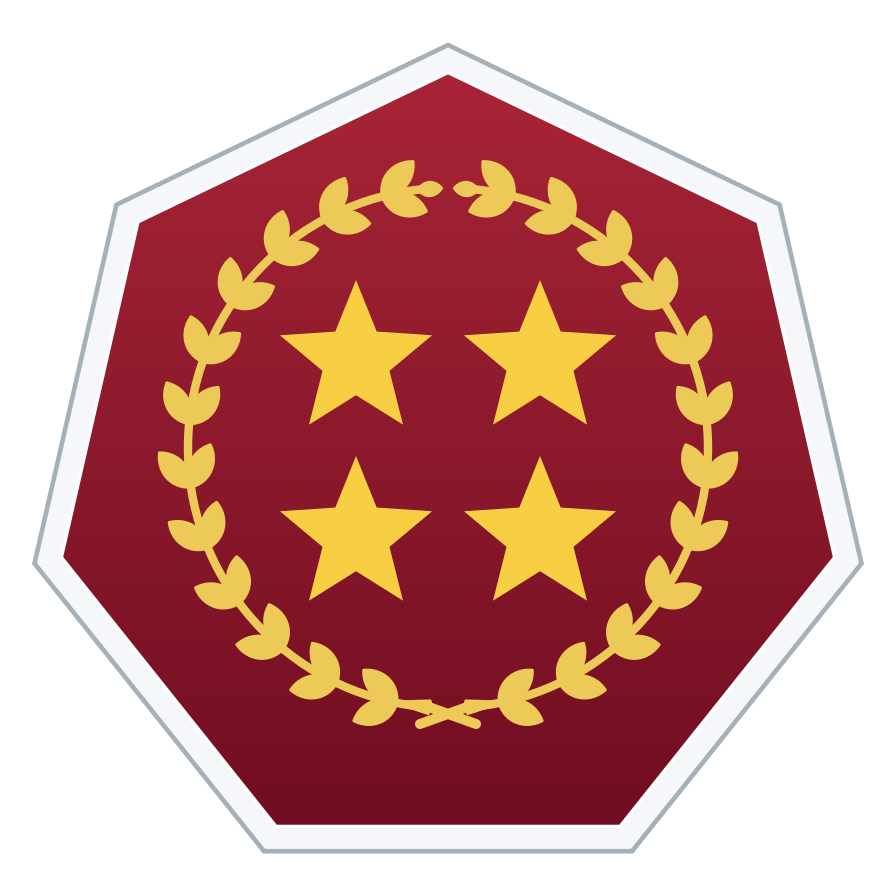
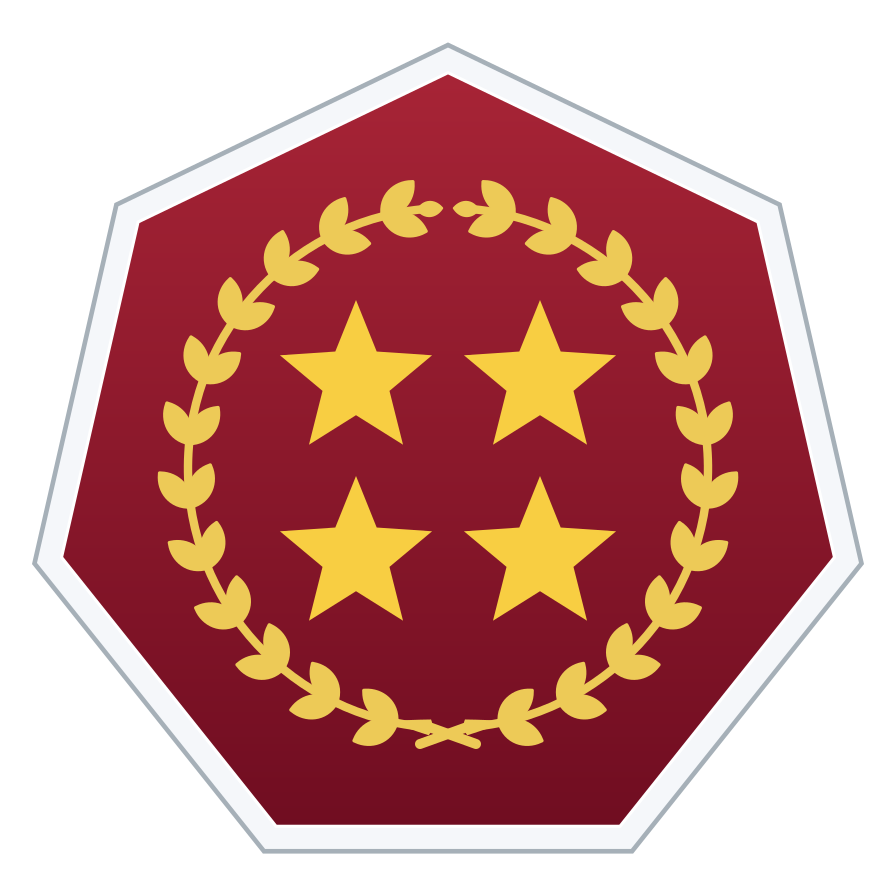
fix(rank-badges): lower general wreaths for visual balance

Changed region(s): [[0.1562, 0.1562, 0.8438, 0.8438], [0.3125, 0.5, 0.6875, 0.6875], [0.3125, 0.3125, 0.6875, 0.5]]

diff --git a/src/game/rankBadgeAssets.ts b/src/game/rankBadgeAssets.ts
@@ -22,10 +22,10 @@ export const RANK_BADGE_ASSETS = {
   badge_field_2: { src: "/assets/rank-badges/trung-ta.png?v=08f212ef3932", outerWidthRatio: 720 / RANK_BADGE_SOURCE_SIZE },
   badge_field_3: { src: "/assets/rank-badges/thuong-ta.png?v=cccd9f34c87a", outerWidthRatio: 720 / RANK_BADGE_SOURCE_SIZE },
   badge_field_4: { src: "/assets/rank-badges/dai-ta.png?v=9c4831395b3f", outerWidthRatio: 720 / RANK_BADGE_SOURCE_SIZE },
-  badge_general_1: { src: "/assets/rank-badges/thieu-tuong.png?v=c8f2120760b4", outerWidthRatio: 832 / RANK_BADGE_SOURCE_SIZE },
-  badge_general_2: { src: "/assets/rank-badges/trung-tuong.png?v=291566114357", outerWidthRatio: 832 / RANK_BADGE_SOURCE_SIZE },
-  badge_general_3: { src: "/assets/rank-badges/thuong-tuong.png?v=32f87cc65a94", outerWidthRatio: 832 / RANK_BADGE_SOURCE_SIZE },
-  badge_general_4: { src: "/assets/rank-badges/dai-tuong.png?v=23f0a5f05d74", outerWidthRatio: 832 / RANK_BADGE_SOURCE_SIZE },
+  badge_general_1: { src: "/assets/rank-badges/thieu-tuong.png?v=041447978d03", outerWidthRatio: 832 / RANK_BADGE_SOURCE_SIZE },
+  badge_general_2: { src: "/assets/rank-badges/trung-tuong.png?v=2dc9ddc0951c", outerWidthRatio: 832 / RANK_BADGE_SOURCE_SIZE },
+  badge_general_3: { src: "/assets/rank-badges/thuong-tuong.png?v=e34ddd1f3bc5", outerWidthRatio: 832 / RANK_BADGE_SOURCE_SIZE },
+  badge_general_4: { src: "/assets/rank-badges/dai-tuong.png?v=a7da741062bf", outerWidthRatio: 832 / RANK_BADGE_SOURCE_SIZE },
   badge_endgame_1: { src: "/assets/rank-badges/thong-soai.png?v=5039d5b0f76f", outerWidthRatio: 832 / RANK_BADGE_SOURCE_SIZE },
   badge_endgame_grand_marshal: { src: "/assets/rank-badges/dai-thong-soai.png?v=03c2ad4489d9", outerWidthRatio: 832 / RANK_BADGE_SOURCE_SIZE },
   badge_endgame_2: { src: "/assets/rank-badges/nguyen-soai.png?v=87e16d58957c", outerWidthRatio: 832 / RANK_BADGE_SOURCE_SIZE },

diff --git a/docs/rank-badges-png.md b/docs/rank-badges-png.md
@@ -4,6 +4,16 @@ Bộ asset gồm **24 PNG RGBA 896×896**, xuất trực tiếp từ SVG vector 
 
 ![Bộ 24 huy hiệu hiện tại](rank-badges-redraw.webp)
 
+## Cân bằng thị giác cấp Tướng
+
+So với `b26a6fb`, chỉ bốn huy hiệu **Thiếu Tướng, Trung Tướng, Thượng Tướng, Đại Tướng** thay đổi. `GENERAL_OPTICAL_OFFSET_Y = 5` dịch cả vòng nguyệt quế và cụm sao từ tâm (112,112) xuống (112,117) trên canvas 224px, tương đương 20px trong PNG 896px và khoảng 1,12px khi hiển thị 50px. Một group dịch chuyển chung dùng cho cả `badge_general_1` đến `badge_general_4`; chỉ số sao khác nhau.
+
+Đã đối chiếu cả bốn ảnh trước/sau với Tứ Tinh Thủ Hộ cùng số sao ở 224/56/24px. Mức hạ nhẹ giúp giảm cảm giác vòng bị nhấc lên trên và giữ bố cục gần cảm giác centered của nhóm tham chiếu, không làm nặng phần đáy. Vòng vẫn tròn bán kính 65, sao nằm giữa vòng; không scale hoặc chỉnh riêng lá, cành, sao hay gốc cành.
+
+Audit xác nhận khung 7 cạnh và mọi lớp viền giữ nguyên, chỉ có phép `translate(0 5)` bao quanh artwork cũ. Nền đỏ, viền sáng, vàng nguyệt quế, sao flat 1/2/3/4 không đổi. Khoảng hở nhỏ nhất từ nội dung đến viền trong tăng từ 11,68 lên **16,18 đơn vị logic**. Cả 24 PNG giữ nguyên alpha; 20 huy hiệu ngoài nhóm Tướng giữ nguyên từng byte. Registry chỉ đổi bốn hash URL, không đổi ID, tên file, padding hoặc outer ratio. PNG cuối xuất sạch từ SVG, không lấy pixel từ ảnh tham chiếu.
+
+![Trước và sau chỉnh cấp Tướng, đối chiếu Tứ Tinh Thủ Hộ](rank-badges-general-balance.webp)
+
 ## Rà soát số cạnh ngày 08/09/2026
 
 Catalog đã khai báo đúng hình, nhưng renderer cũ dựng **Tướng thành 8 cạnh** và **Tổng Tư Lệnh thành 10 cạnh**. Tọa độ Úy, Tá và Tứ Tinh viết tay cũng chưa bảo đảm các cạnh bằng nhau. Đã thay bằng một hàm `regularPolygon(sides)` và xuất lại đúng 17 SVG/PNG so với baseline `2eba35b`:
@@ -20,20 +30,20 @@ Các đỉnh cách nhau `2π/n` trên cùng đường tròn; hình chỉ đượ
 
 ## Chi tiết thiết kế được bảo toàn
 
-Audit so sánh toàn bộ markup phía sau các lớp khung với baseline: **mọi ngôi sao, vòng tròn, lá, thân cành và phép đặt vị trí đều giữ nguyên**. Bảy huy hiệu Học Viên/Binh Sĩ/Hạ Sĩ Quan giữ nguyên PNG từng byte và nội dung SVG.
+Ở lượt sửa đa giác trên `b26a6fb`, audit so sánh toàn bộ markup phía sau các lớp khung với baseline `2eba35b`: mọi ngôi sao, vòng tròn, lá, thân cành và phép đặt vị trí đều giữ nguyên. Lượt cân bằng thị giác tiếp theo chỉ dịch nhóm nội dung cấp Tướng như mô tả ở trên. Bảy huy hiệu Học Viên/Binh Sĩ/Hạ Sĩ Quan vẫn giữ nguyên PNG từng byte và nội dung SVG.
 
 - Úy: sao flat 1/2/3/4, bán kính 20; vòng kín tâm (112,120), bán kính 59, nét 3,8. Offset thị giác 8 đơn vị vẫn giữ cho vòng, sao và cặp mini laurel. Gốc chung tại (112,193), năm cặp lá và một lá tận cùng mỗi bên, cung 55 độ; cùng một base cho cả bốn cấp.
 - Tá: sao flat bán kính 20; vòng trắng tâm (112,112), bán kính 57. Sáu cặp lá mỗi bên, thân 2,1 và cuống giao 2,4 đơn vị.
-- Tướng: nền đỏ, viền sáng, sao flat bán kính 20; vòng nguyệt quế vàng tròn bán kính 65, 12 cặp lá mỗi bên. Nội dung giữ tâm (112,112); khoảng cách nhỏ nhất từ pixel nội dung đến mép nền trong khung 7 cạnh là **11,68 đơn vị logic**, đủ thoáng mà không phải co sao hoặc bóp vòng.
+- Tướng: nền đỏ, viền sáng, sao flat bán kính 20; vòng nguyệt quế vàng tròn bán kính 65, 12 cặp lá mỗi bên. Nội dung hiện có tâm (112,117); khoảng cách nhỏ nhất từ pixel nội dung đến mép nền trong khung 7 cạnh là **16,18 đơn vị logic**, đủ thoáng mà không phải co sao hoặc bóp vòng.
 - Tứ Tinh Thủ Hộ: nền đen, viền vàng, vòng nguyệt quế tròn bán kính 65; thân 2,5, cuống giao 2,9, lá vàng có gân; sao ceremonial bán kính 20.
 - Tổng Tư Lệnh: năm nhánh quay đều từng 72 độ; sao ceremonial trung tâm bán kính 45, lớn nhất bộ; khung **chín cạnh** vàng.
 
-Kiểm tra raster nội dung riêng xác nhận không chạm viền trong ở cả 17 huy hiệu. Khoảng cách tối thiểu theo nhóm: Úy 8,29; Tá 2,80; Tướng 11,68; Tứ Tinh 11,81; Tổng Tư Lệnh 3,35 đơn vị logic.
+Kiểm tra raster nội dung riêng xác nhận không chạm viền trong ở cả 17 huy hiệu. Khoảng cách tối thiểu theo nhóm: Úy 8,29; Tá 2,80; Tướng 16,18; Tứ Tinh 11,81; Tổng Tư Lệnh 3,35 đơn vị logic.
 
 ## Asset và tích hợp
 
 - PNG trong game: `public/assets/rank-badges/`; SVG master: `art/rank-badges/`.
-- Tổng dung lượng 24 PNG: **2.073.592 byte**. PNG 896px có padding alpha tối thiểu 32px; SVG và ảnh tổng quan nằm ngoài public.
+- Tổng dung lượng 24 PNG: **2.074.537 byte**. PNG 896px có padding alpha tối thiểu 32px; SVG và ảnh tổng quan nằm ngoài public.
 - `src/game/rankBadgeAssets.ts` giữ nguyên đủ 24 ID và tên file. Hash URL đổi theo nội dung PNG mới. `outerWidthRatio` đo lại với ngưỡng alpha ≥128: Tá từ 728/896 về 720/896, Tổng Tư Lệnh từ 792/896 lên 832/896; các nhóm khác giữ chiều rộng cũ.
 - Đã rà soát `badgeCatalog.ts`, `types.ts`, `RankBadge`, `RankTierProgress`, `RankPresentation`, `HomeXpJourney`, `JourneyDutySheet`, danh sách/chi tiết quân hàm, bản đồ hành trình, hồ sơ, nhật ký, quân phục, promotion và badge nhỏ tại Tăng Gia. Các caller dùng component chung; `RankBadge` giữ ảnh vuông với `object-contain`, thanh bậc đọc chiều rộng từ cùng mapping. Không có hình học khung độc lập cần sửa ở các caller.
 - Không đổi XP, rank/family/tier, Badge ID, thứ tự, phần thưởng, gameplay, save/migration hay component UI.
@@ -44,16 +54,17 @@ Dùng Node.js và Sharp **0.35.4**, librsvg **2.62.91**. Sharp là công cụ au
 
 ```sh
 NODE_PATH=/path/to/node_modules node scripts/assets/render_rank_badges.cjs
-NODE_PATH=/path/to/node_modules node scripts/assets/audit_rank_badge_polygons.cjs 2eba35b
+NODE_PATH=/path/to/node_modules node scripts/assets/audit_rank_badge_polygons.cjs b26a6fb general
 NODE_PATH=/path/to/node_modules node scripts/assets/preview_rank_badge_scales.cjs
+NODE_PATH=/path/to/node_modules node scripts/assets/preview_general_badge_balance.cjs b26a6fb
 npm run lint
 npm run build
 git diff --check
 ```
 
-Audit đọc lại các lớp polygon đã xuất, độc lập với hàm sinh: kiểm tra 5/6/7/8/9 cạnh, độ dài cạnh, bán kính, bước góc, tâm chung, hệ số thu đồng nhất và vị trí bounding box. Đối chiếu catalog, hash URL, chiều rộng alpha và pixel PNG với SVG. Khi có baseline, kiểm tra chỉ 17 khung đổi, giữ mọi chi tiết trang trí và bảy huy hiệu vuông. Có thể bỏ baseline để kiểm tra trạng thái hiện tại. Vòng trắng Úy được lấy mẫu đủ 360 độ trên raster 896/224/128/96/56/50/36/24px.
+Audit đọc lại các lớp polygon đã xuất, độc lập với hàm sinh: kiểm tra 5/6/7/8/9 cạnh, độ dài cạnh, bán kính, bước góc, tâm chung, hệ số thu đồng nhất và vị trí bounding box. Đối chiếu catalog, hash URL, chiều rộng alpha và pixel PNG với SVG. Chế độ `general` kiểm tra chỉ bốn asset Tướng đổi, mọi khung/alpha giữ nguyên và artwork chỉ được dịch chung 5 đơn vị. Có thể bỏ baseline để kiểm tra trạng thái hiện tại. Audit lần sửa đa giác trước dùng baseline `2eba35b` và bỏ mode `general` trên đúng checkout `b26a6fb`. Vòng trắng Úy được lấy mẫu đủ 360 độ trên raster 896/224/128/96/56/50/36/24px.
 
-`audit_rank_badges.cjs` cũ dành riêng cho các lần polish giữ nguyên alpha; không dùng invariant đó cho thay đổi hình khung lần này.
+`audit_rank_badges.cjs` cũ dành riêng cho các lần polish Úy/nguyệt quế trước; dùng audit đa giác với mode `general` cho lượt cân bằng thị giác này.
 
 Đã xem toàn bộ 24 huy hiệu ở 224px và các huy hiệu nhiều sao nhất của mỗi nhóm ở 14/24/36/50/56/96/128px trên nền sáng/tối. Vạch dưới ảnh dùng đúng chiều rộng thanh bậc theo mapping. Ở 14px chi tiết vốn rất nhỏ; hình học được xác nhận bằng master và audit, không coi ảnh 14px là bằng chứng đọc rõ từng lá/số cạnh.
 
